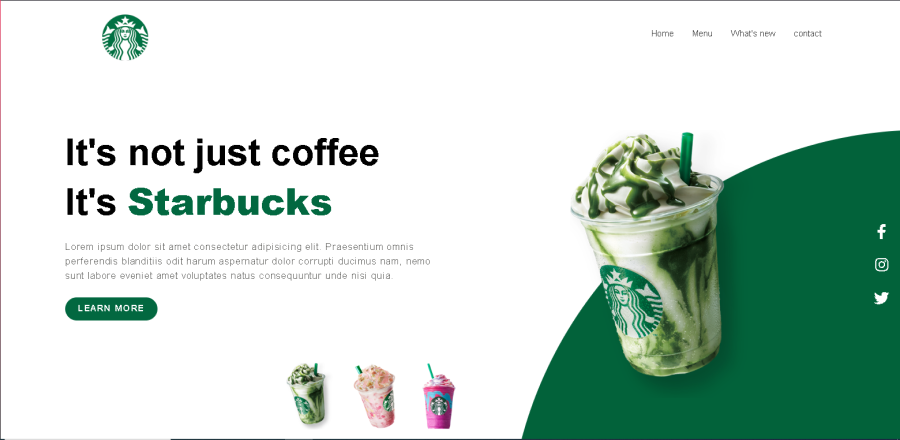
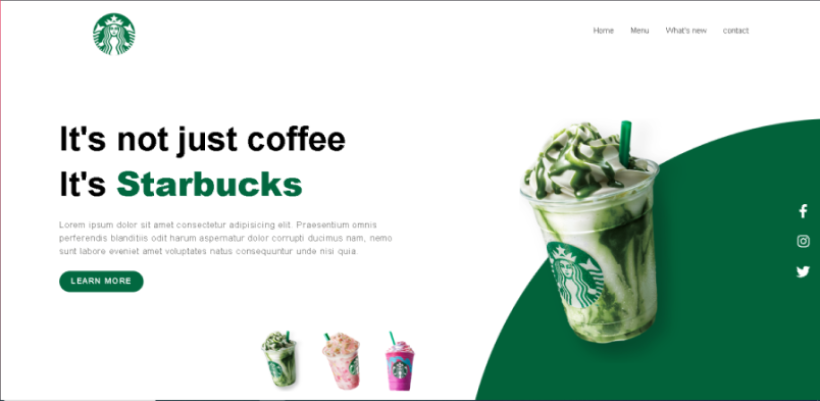
reparando el inicio

diff --git a/css/estilo.css b/css/estilo.css
@@ -74,16 +74,17 @@ nav{
 .primero{
     display: grid;
     grid-template: "empty-left segundo    tercero empty-right"/
-                    140px        5fr       4fr    140px ;
+                    80px        5fr       4fr    80px ;
 }
 
 
 .segundo{
-    width: 900px;
-    height: 450px;
+    width: 820px;
+    height: 401px;
     grid-area: segundo;
     margin-right: 20px;
     border-radius: 8px;
+    background-color: antiquewhite;
 
 }
 .tercero{
@@ -103,8 +104,8 @@ nav{
 }
 .quinto{
     display: flex;
-    width: 675.59px;
-    height: 153px;
+    width: 550px;
+    height: 120px;
     border-radius: 12px;
     text-align: center;
     text-decoration: none;
@@ -124,7 +125,7 @@ nav{
     padding: 30px;
 }
 .img{
-    height: 153px;
+    height: 120px;
     width: 300px;
     -webkit-clip-path: polygon(15% 0,100% 0,100% 100%,0 100%);
     clip-path: polygon(15% 0,100% 0,100% 100%,0 100%);
@@ -180,7 +181,7 @@ nav{
 .sexto{
     display: grid;
     grid-template: "empty-left  octavo   onceavo empty-right"/
-                    100px        5fr       4fr    100px ;
+                    80px        5fr       4fr    80px ;
 }
 .octavo{
     margin-top: 100px;
@@ -193,8 +194,8 @@ nav{
 }
 .decimo{
     display: flex;
-    width: 850px;
-    height: 380px;
+    width: 670px;
+    height: 310px;
     border-radius: 12px;
     text-align: center;
     text-decoration: none;
